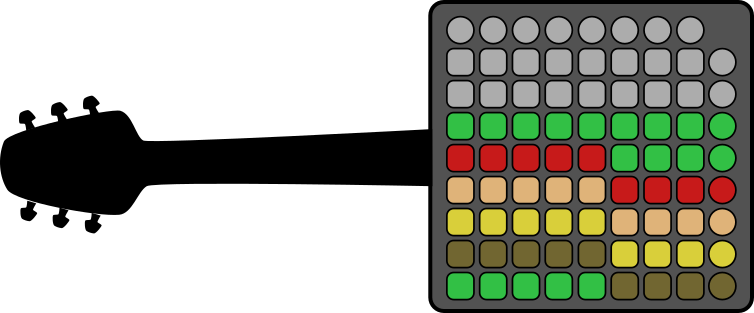
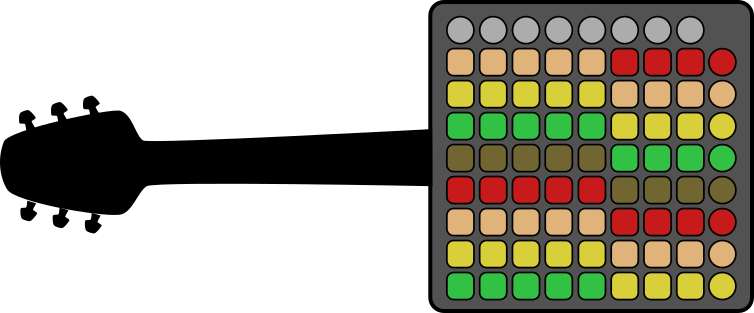
Rearranged and extended the colour scheme.

Changed region(s): [[0.5796, 0.1438, 0.9761, 0.9776]]

diff --git a/src/js/launchpad-colours.js b/src/js/launchpad-colours.js
@@ -3,84 +3,84 @@
     var lpg = fluid.registerNamespace("lpg");
     lpg.colours = {
         // Start "high D" string
-        0: 12,
-        1: 12,
-        2: 12,
-        3: 12,
-        4: 12,
-        5: 12,
-        6: 12,
-        7: 12,
-        8: 12,
+        0: 63,
+        1: 63,
+        2: 63,
+        3: 63,
+        4: 63,
+        5: 15,
+        6: 15,
+        7: 15,
+        8: 15,
         // Start "high A" string
-        16: 12,
-        17: 12,
-        18: 12,
-        19: 12,
-        20: 12,
-        21: 12,
-        22: 12,
-        23: 12,
-        24: 12,
+        16: 58,
+        17: 58,
+        18: 58,
+        19: 58,
+        20: 58,
+        21: 63,
+        22: 63,
+        23: 63,
+        24: 63,
         // Start "high E" string
         32: 60,
         33: 60,
         34: 60,
         35: 60,
         36: 60,
-        37: 60,
-        38: 60,
-        39: 60,
-        40: 60,
+        37: 58,
+        38: 58,
+        39: 58,
+        40: 58,
         // Start "B" string
-        48: 15,
-        49: 15,
-        50: 15,
-        51: 15,
-        52: 15,
+        48: 29,
+        49: 29,
+        50: 29,
+        51: 29,
+        52: 29,
         53: 60,
         54: 60,
         55: 60,
         56: 60,
         // Start "G" string
-        64: 63,
-        65: 63,
-        66: 63,
-        67: 63,
-        68: 63,
-        69: 15,
-        70: 15,
-        71: 15,
-        72: 15,
+        64: 15,
+        65: 15,
+        66: 15,
+        67: 15,
+        68: 15,
+        69: 29,
+        70: 29,
+        71: 29,
+        72: 29,
         // Start "D" string
-        80: 58,
-        81: 58,
-        82: 58,
-        83: 58,
-        84: 58,
-        85: 63,
-        86: 63,
-        87: 63,
-        88: 63,
+        80: 63,
+        81: 63,
+        82: 63,
+        83: 63,
+        84: 63,
+        85: 15,
+        86: 15,
+        87: 15,
+        88: 15,
         // Start "A" string
-        96: 29,
-        97: 29,
-        98: 29,
-        99: 29,
-        100: 29,
-        101: 58,
-        102: 58,
-        103: 58,
-        104: 58,
+        96: 58,
+        97: 58,
+        98: 58,
+        99: 58,
+        100: 58,
+        101: 63,
+        102: 63,
+        103: 63,
+        104: 63,
         // Start "low E" string
         112: 60,
         113: 60,
         114: 60,
         115: 60,
         116: 60,
-        117: 29,
-        118: 29,
-        119: 29,
-        120: 29
+        117: 58,
+        118: 58,
+        119: 58,
+        120: 58
     };
 })(fluid);

diff --git a/README.md b/README.md
@@ -44,9 +44,8 @@ highest row.
 The "ui router" also changes the display when you play notes.  When you depress a note on any string, the note's colour
 will be cleared.  When you release that note, its colour will return.
 
-The two unused rows at the top of the unit are not lit when pressed or unpressed, but are still playable.  They are in
-essence a continuation of the pattern used by the first sixth strings, a seventh string that begins at A4 and an eighth
-that begins at D5.
+The two rows at the top of the unit are not found on a guitar, but continue the same progression from string to string.
+The seventh string that begins at A4 and the eighth that begins at D5.
 
 ## The "Remapping Router"
 
@@ -55,8 +54,8 @@ the one below it.  As there are only 9 notes per row, 5 notes are unplayable.  T
 sent by the launchpad so that each row is 5 steps higher than the one below it.  As a result, all notes in the range are
 playable, and the overall range is reduced by the overlap between strings.  The launchpad is also tuned from a very high
 E7 to a very low G minus 2.  A guitar is tuned from low to high, and its range is from E2 to E5.  The remapping router
-remaps notes so that the "strings" are arranged from low to high, and so that the range is from E2 to C5 (up to A5 if
-you use the unlit seventh and eight strings atop the unit).
+remaps notes so that the "strings" are arranged from low to high, and so that the range of its first six strings is from
+E2 to C5.  The range continues up to A5 if you use the seventh and eight rows beyond the traditional guitar strings.
 
 The net effect is intended to be as though you were holding the neck of a guitar with your left hand and looking down at
 it.  The lowest string is closest to you, and the highest string is furthest.  The method of playing is different, and
